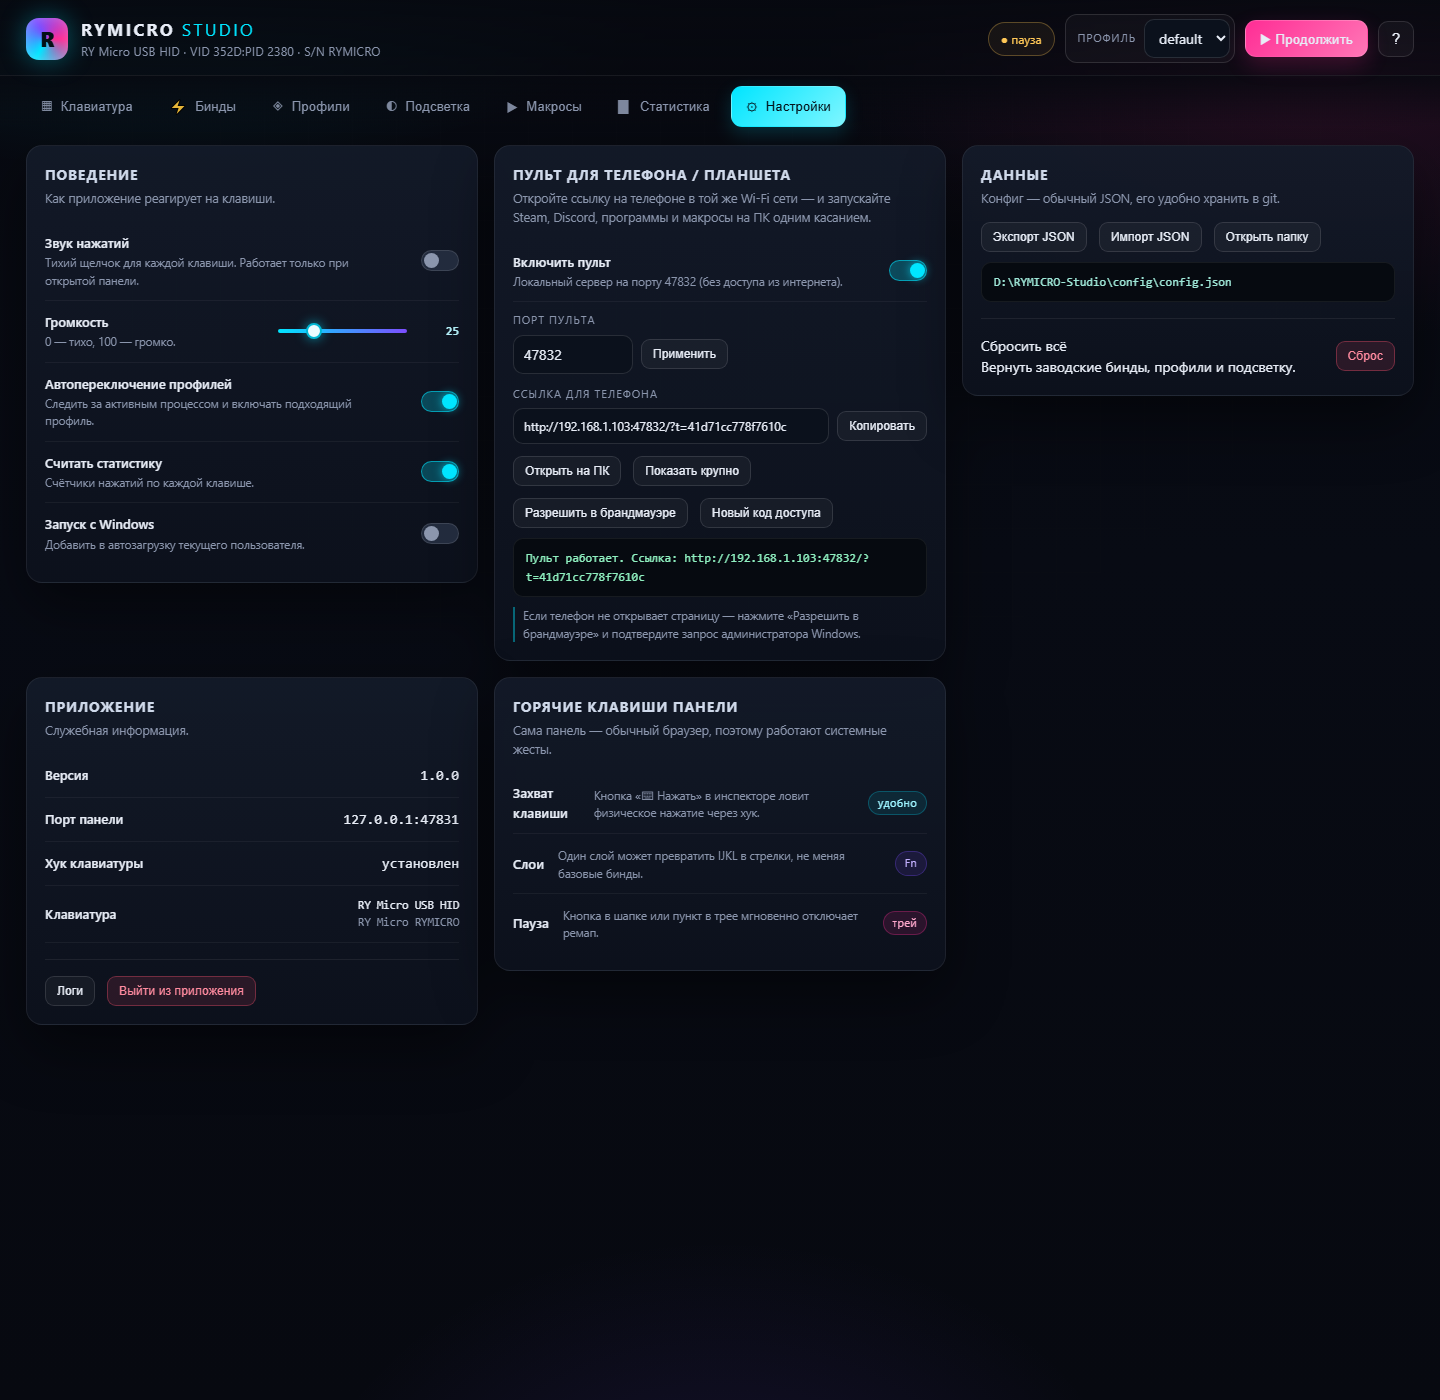
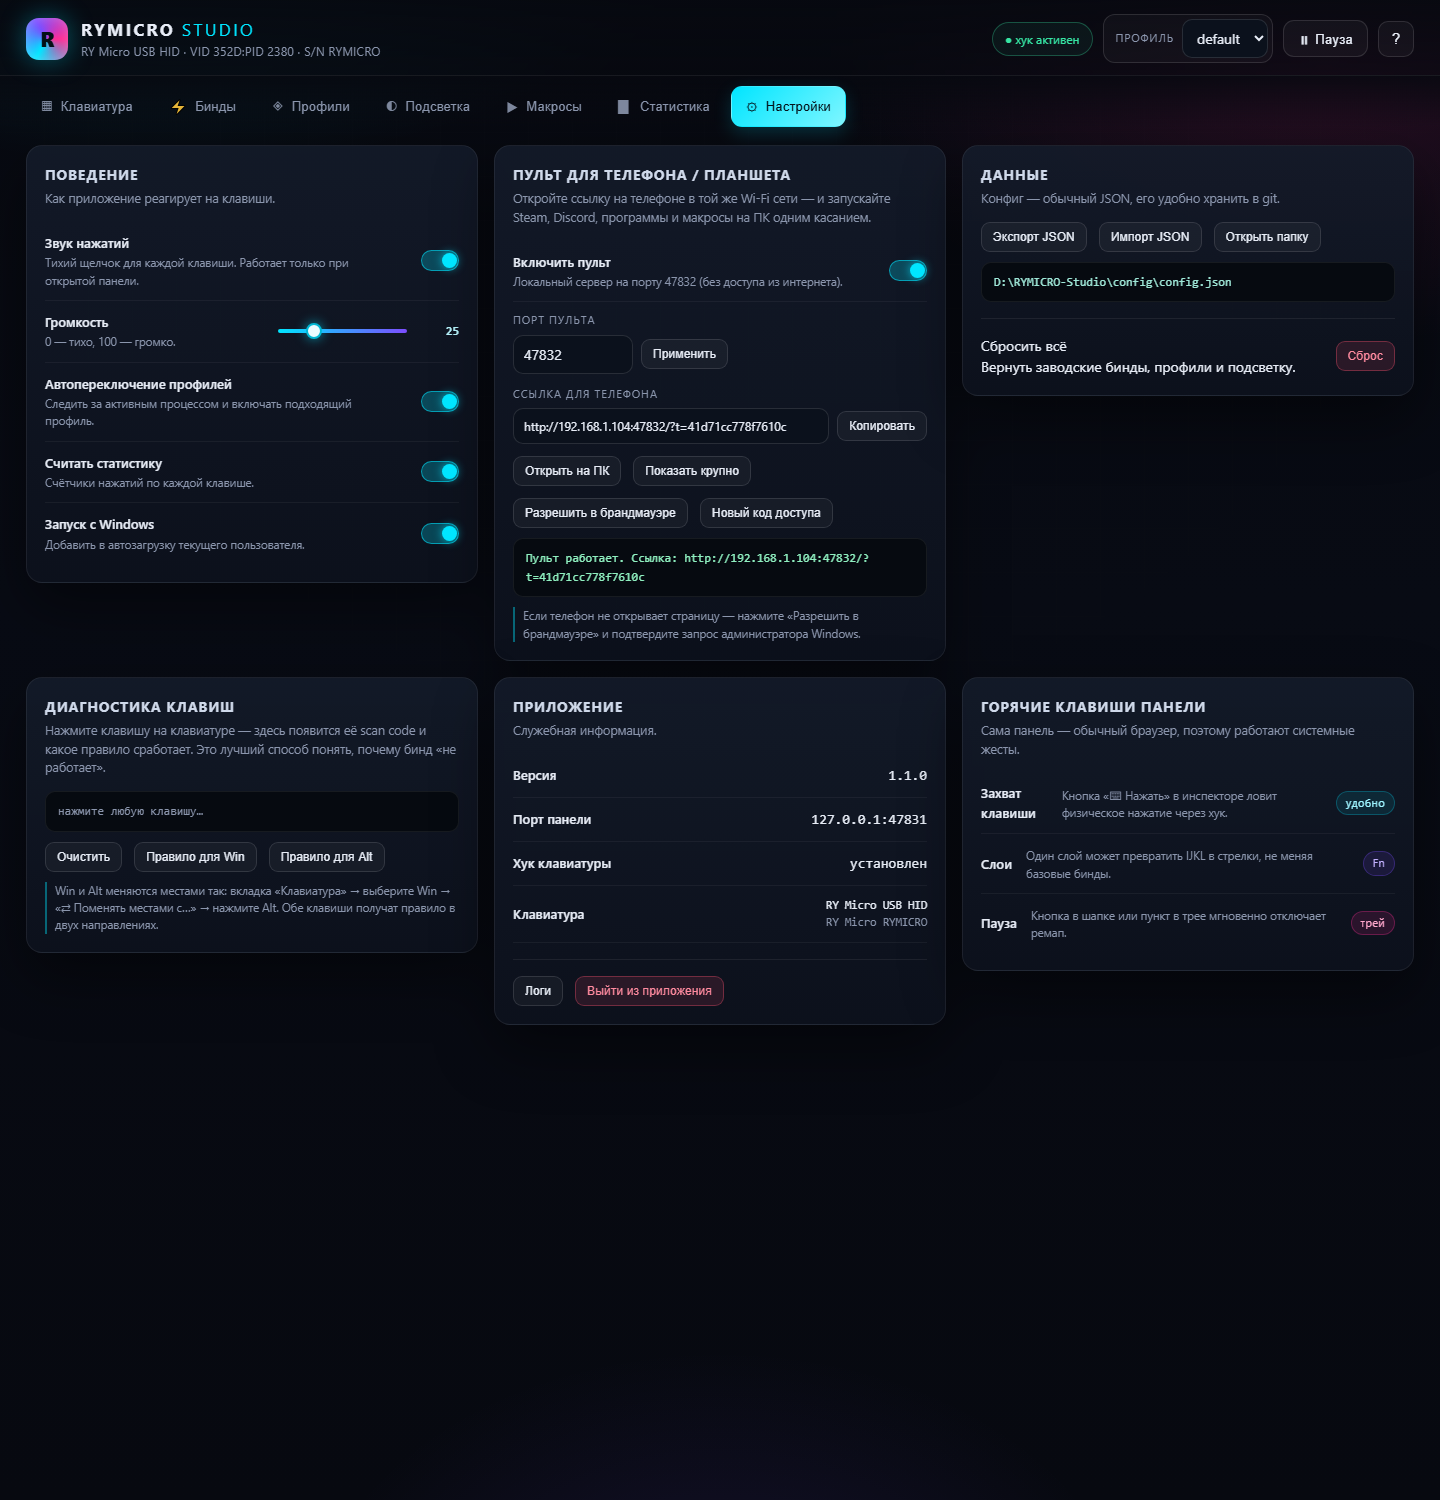
fix: modifier alias matching + key diagnostics (Win/Alt swap actually works)
- alias-aware rule matching: 5B/E05B, 38/E038, 1D/E01D, 2A/36
- hook falls back to VK when a firmware omits the extended flag
- held-target lookup is alias-aware, so Alt can no longer stick
- GET /api/resolve id=... shows which rule applies
- live key log in Settings: id/scan/vk/ext + matched rule

diff --git a/web/pages.js b/web/pages.js
@@ -2,8 +2,8 @@
 (() => {
   'use strict';
   const R = window.RY;
-  const { A, $, esc, fmt, clamp, api, apiGet, keyName, profileObj, toast, openModal, closeModal,
-    ask, confirmBox, startCapture, render, section } = R;
+  const { A, $, $$, esc, fmt, clamp, api, apiGet, keyName, profileObj, toast, openModal, closeModal,
+    ask, confirmBox, startCapture, render, section, actionSummary } = R;
 
   /* ============================== ПРОФИЛИ ============================== */
 
@@ -405,6 +405,19 @@
       </div>
 
       <div class="card">
+        <h3>Диагностика клавиш</h3>
+        <p class="sub">Нажмите клавишу на клавиатуре — здесь появится её scan code и какое правило сработает. Это лучший способ понять, почему бинд «не работает».</p>
+        <div class="console" id="keyLogBox" style="height:auto;max-height:220px;display:flex;flex-direction:column;gap:2px">нажмите любую клавишу…</div>
+        <div class="row" style="margin-top:10px">
+          <button class="btn ghost sm" id="keyLogClear">Очистить</button>
+          <button class="btn ghost sm" data-resolve="E05B">Правило для Win</button>
+          <button class="btn ghost sm" data-resolve="38">Правило для Alt</button>
+        </div>
+        <div class="console" id="resolveLog" style="height:auto;margin-top:10px;display:none"></div>
+        <div class="kbd-hint" style="margin-top:10px">Win и Alt меняются местами так: вкладка «Клавиатура» → выберите Win → «⇄ Поменять местами с…» → нажмите Alt. Обе клавиши получат правило в двух направлениях.</div>
+      </div>
+
+      <div class="card">
         <h3>Приложение</h3>
         <p class="sub">Служебная информация.</p>
         <div class="set-row"><div class="t">Версия</div><div class="mono">${esc(A.ver || '—')}</div></div>
@@ -495,6 +508,26 @@
         remLog('Новый код создан. Ссылка обновлена.', true);
       } catch (e) { remLog('Ошибка: ' + e.message, false); }
     });
+
+    /* диагностика клавиш */
+    R.renderKeyLog();
+    if ($('#keyLogClear')) $('#keyLogClear').addEventListener('click', () => { A.keyLog = []; R.renderKeyLog(); });
+    $$('[data-resolve]').forEach((b) => b.addEventListener('click', async () => {
+      const id = b.dataset.resolve;
+      const box = $('#resolveLog');
+      try {
+        const r = await apiGet('resolve', { id, profile: A.cfg.ActiveProfile, layer: A.layer || '' });
+        box.style.display = 'block';
+        box.textContent = r.matched
+          ? id + ': правило ' + r.from + (r.viaAlias ? ' (совпало как алиас)' : '') + ' · ' + (r.enabled ? 'включено' : 'ВЫКЛЮЧЕНО') + ' · ' + actionSummary(r.action)
+          : id + ': правила нет. Назначьте действие на эту клавишу.';
+        box.style.color = r.matched && r.enabled ? '#8ff0c0' : '#ffb0be';
+      } catch (e) {
+        box.style.display = 'block';
+        box.textContent = 'Ошибка: ' + e.message;
+        box.style.color = '#ffb0be';
+      }
+    }));
 
     $('#exportCfg').addEventListener('click', () => {
       const blob = new Blob([JSON.stringify(A.cfg, null, 2)], { type: 'application/json' });

diff --git a/web/core.js b/web/core.js
@@ -17,7 +17,7 @@
     drag: null, capture: null, audio: null, lastSound: 0,
     macroSel: null, macroDraft: null, rgbLog: [], hidDevices: [],
     pendingState: null, connected: false, sse: null, ready: false,
-    saveTimer: null, lightingTimer: null,
+    saveTimer: null, lightingTimer: null, keyLog: [],
   };
   const R = {};
 
@@ -168,6 +168,9 @@
   }
 
   function onKey(d) {
+    A.keyLog.unshift(d);
+    if (A.keyLog.length > 14) A.keyLog.length = 14;
+    renderKeyLog();
     if (d.Injected) return;
     if (d.Down) {
       if (!A.live.has(d.Id)) {
@@ -204,8 +207,39 @@
     if (info) info.textContent = A.pressedTotal ? 'за сессию: ' + fmt(A.pressedTotal) : '';
   }
 
-  function pulseStrips() {
-    const s = A.cfg && A.cfg.Lighting;
+  const CANON = {
+    '5B': 'LWIN', E05B: 'LWIN', '5C': 'RWIN', E05C: 'RWIN', '5D': 'MENU', E05D: 'MENU',
+    '38': 'ALT', E038: 'ALT', '1D': 'CTRL', E01D: 'CTRL', '2A': 'SHIFT', '36': 'SHIFT',
+  };
+  const canonKey = (id) => CANON[String(id || '').toUpperCase()] || null;
+  const sameKey = (a, b) => {
+    const x = String(a || '').toUpperCase(), y = String(b || '').toUpperCase();
+    if (x && x === y) return true;
+    const ca = canonKey(x);
+    return ca !== null && ca === canonKey(y);
+  };
+  const hex2 = (n) => Number(n || 0).toString(16).toUpperCase().padStart(2, '0');
+
+  function renderKeyLog() {
+    const box = $('#keyLogBox');
+    if (!box) return;
+    if (!A.keyLog.length) { box.innerHTML = '<div class="muted" style="font-size:12px">нажмите любую клавишу…</div>'; return; }
+    const rules = rulesForLayer(profileObj(), A.layer) || [];
+    box.innerHTML = A.keyLog.map((d) => {
+      const rule = rules.find((r) => r.Enabled && sameKey(r.From, d.Id));
+      const verdict = rule
+        ? '<span class="ok">правило ' + esc(rule.From) + ' → ' + esc(actionSummary(rule.Action)) + '</span>'
+        : '<span class="err">правила нет</span>';
+      const alias = rule && String(rule.From).toUpperCase() !== String(d.Id || '').toUpperCase()
+        ? ' <span class="tag">алиас</span>' : '';
+      return '<div class="klog"><b>' + esc(d.Name || d.Id || '—') + '</b>' +
+        '<span class="mono">id=' + esc(d.Id || '—') + ' · scan=' + hex2(d.Scan) + ' · vk=' + hex2(d.Vk) +
+        (d.Ext ? ' · ext' : '') + (d.Down ? '' : ' · up') + '</span>' +
+        (d.Injected ? '<span class="tag">inject</span>' : '') + verdict + alias + '</div>';
+    }).join('');
+  }
+
+  function pulseStrips() {    const s = A.cfg && A.cfg.Lighting;
     if (!s) return;
     ['left', 'right'].forEach((side) => {
       const st = side === 'left' ? s.SideLeft : s.SideRight;
@@ -475,6 +509,7 @@
     A, $, $$, esc, fmt, clamp, delay, api, apiGet,
     keyName, profileObj, rulesForLayer, ruleFor, actionSummary, badgeFor, hexToRgb, stripStyle,
     applyState, onState, connectSSE, onKey, updateKeyLive, renderLiveBar, pulseStrips, playSound,
+    sameKey, canonKey, renderKeyLog,
     startCapture, finishCapture, toast, openModal, closeModal, ask, confirmBox,
     render, switchTab, start, renderHeader,
   });

diff --git a/web/app.css b/web/app.css
@@ -395,3 +395,9 @@ kbd{font:600 11px Consolas,monospace;background:rgba(255,255,255,.07);border:1px
 
 /* отключение анимаций для скриншотов (?noanim=1) */
 body.noanim *,body.noanim *::before,body.noanim *::after{animation:none!important;transition:none!important}
+
+.klog{display:flex;flex-wrap:wrap;gap:8px;align-items:center;padding:6px 8px;border-radius:8px;background:rgba(255,255,255,.03);font-size:12px;margin-bottom:5px}
+.klog .mono{color:#8f9cb3;font-size:11.5px}
+.klog .ok{color:#7ee2b8}
+.klog .err{color:#ff8fa3}
+.klog b{color:#dbe6f7;font-weight:600}

diff --git a/src/Engine.cs b/src/Engine.cs
@@ -153,12 +153,68 @@ namespace RyMicro
             }
         }
 
-        static Rule Find(List<Rule> rules, string id)
+        static string HeldKey(string id)
+        {
+            if (HeldTargets.ContainsKey(id)) return id;
+            foreach (var k in HeldTargets.Keys)
+                if (SameKey(k, id)) return k;
+            return null;
+        }
+
+        /// <summary>Какое правило сработает для клавиши — для диагностики в панели.</summary>
+        public static Rule ResolveRule(string profileName, string layer, string id)
+        {
+            Profile p;
+            if (profileName == null || !Cfg.Current.Profiles.TryGetValue(profileName, out p)) p = Profile();
+            if (p == null) return null;
+            lock (Sync)
+            {
+                if (!string.IsNullOrEmpty(layer))
+                {
+                    List<Rule> rules;
+                    if (p.Layers.TryGetValue(layer, out rules))
+                    {
+                        var found = Find(rules, id);
+                        if (found != null) return found;
+                    }
+                }
+                return Find(p.Rules, id);
+            }
+        }
+
+        public static Rule Find(List<Rule> rules, string id)
         {
             Rule best = null;
             foreach (var r in rules)
-                if (r.Enabled && string.Equals(r.From, id, StringComparison.OrdinalIgnoreCase)) best = r;
+                if (r.Enabled && SameKey(r.From, id)) best = r;
             return best;
+        }
+
+        /// <summary>
+        /// Сравнение клавиш с учётом «алиасов» модификаторов.
+        /// Прошивки дешёвых клавиатур иногда присылают Win без extended-флага,
+        /// а Alt — как правый (E038). Без этого бинд «Win → Alt» молча не срабатывает.
+        /// </summary>
+        public static bool SameKey(string a, string b)
+        {
+            if (string.Equals(a, b, StringComparison.OrdinalIgnoreCase)) return true;
+            string ca = Canon(a), cb = Canon(b);
+            return ca != null && ca == cb;
+        }
+
+        static string Canon(string id)
+        {
+            if (string.IsNullOrEmpty(id)) return null;
+            switch (id.ToUpperInvariant())
+            {
+                case "5B": case "E05B": return "LWIN";
+                case "5C": case "E05C": return "RWIN";
+                case "5D": case "E05D": return "MENU";
+                case "38": case "E038": return "ALT";
+                case "1D": case "E01D": return "CTRL";
+                case "2A": case "36": return "SHIFT";
+            }
+            return null;
         }
 
         static void Apply(KeyEvent e, Rule rule)
@@ -181,11 +237,12 @@ namespace RyMicro
                     List<KeyDef> held;
                     lock (Sync)
                     {
+                        string hk = HeldKey(e.Id);
                         if (e.Down)
                         {
-                            if (HeldTargets.TryGetValue(e.Id, out held))
+                            if (hk != null)
                             {
-                                foreach (var t in held) Native.SendScan(t.Scan, t.Ext, true);
+                                foreach (var t in HeldTargets[hk]) Native.SendScan(t.Scan, t.Ext, true);
                                 return;
                             }
                             foreach (var t in targets) Native.SendScan(t.Scan, t.Ext, true);
@@ -193,10 +250,11 @@ namespace RyMicro
                         }
                         else
                         {
-                            if (HeldTargets.TryGetValue(e.Id, out held))
+                            if (hk != null)
                             {
+                                held = HeldTargets[hk];
                                 for (int i = held.Count - 1; i >= 0; i--) Native.SendScan(held[i].Scan, held[i].Ext, false);
-                                HeldTargets.Remove(e.Id);
+                                HeldTargets.Remove(hk);
                             }
                         }
                     }

diff --git a/src/Http.cs b/src/Http.cs
@@ -407,6 +407,29 @@ namespace RyMicro
                 }));
                 return;
             }
+            if (name == "resolve" && get)
+            {
+                string id = req.QueryString["id"];
+                if (string.IsNullOrEmpty(id)) { Json(res, 400, new { ok = false, error = "Нужен id" }); return; }
+                var rule = Engine.ResolveRule(req.QueryString["profile"], req.QueryString["layer"], id);
+                if (rule == null)
+                {
+                    Reply(res, Cfg.ToJson(new { ok = true, id, matched = false, note = "правило не найдено" }));
+                    return;
+                }
+                Reply(res, Cfg.ToJson(new
+                {
+                    ok = true,
+                    id,
+                    matched = true,
+                    from = rule.From,
+                    viaAlias = !string.Equals(rule.From, id, StringComparison.OrdinalIgnoreCase),
+                    enabled = rule.Enabled,
+                    note = rule.Note,
+                    action = rule.Action
+                }));
+                return;
+            }
             if (name == "remote-status" && get)
             {
                 Reply(res, Remote.StatusJson());

diff --git a/src/Hook.cs b/src/Hook.cs
@@ -55,10 +55,12 @@ namespace RyMicro
                         bool ext = (k.flags & Native.LLKHF_EXTENDED) != 0;
                         string id = Keys.IdFromScan(k.scanCode, ext);
                         var def = Keys.Get(id);
-                        if (id == null)
+                        if (def == null)
                         {
-                            id = "VK_" + k.vkCode.ToString("X2");
-                            def = Keys.ByVkCode(k.vkCode);
+                            // Прошивка могла не выставить extended-флаг (Win/Menu) — уточняем по VK.
+                            var byVk = Keys.ByVkCode(k.vkCode);
+                            if (byVk != null) { id = byVk.Id; def = byVk; }
+                            else if (id == null) id = "VK_" + k.vkCode.ToString("X2");
                         }
                         var e = new KeyEvent
                         {

diff --git a/CHANGELOG.md b/CHANGELOG.md
@@ -11,14 +11,18 @@
 - **Быстрые действия** на вкладке «Бинды»: Steam, Discord, сайт, калькулятор, проводник, блокнот, скриншот, вставка текста, команда.
 - **Обмен клавиш местами**: `Shift` + перетаскивание и кнопка «⇄ Поменять местами с…» (исправляет односторонний «swap» Win/Alt).
 - **Диагностика HID**: `GET /api/lighting-diag` и кнопка «Проверить доступ» — показывает usage page, длины отчётов и вердикт.
+- **Диагностика клавиш** в настройках: живой список последних нажатий с `id`, `scan`, `vk`, `ext` и указанием, какое правило сработало.
+- `GET /api/resolve?id=E05B` — какое правило применится к клавише (удобно проверять бинды без нажатий).
 - HID-консоль умеет выбирать интерфейс по `usage page` (например, `FF00`) и подстраивает размер отчёта под устройство.
 
 ### Изменено
 - Инъекция клавиш переведена на scan code (`SendInput` + `KEYEVENTF_SCANCODE`) — модификаторы Win/Alt и игры работают надёжнее.
+- Сравнение клавиш учитывает алиасы модификаторов: Win без extended-флага (`5B`) и правый Alt (`E038`) теперь совпадают с биндами `E05B` и `38`.
 - В интерфейсе подсветки появился постоянный честный баннер про управление прошивкой.
 
 ### Исправлено
 - Win и Alt не менялись местами: обмен был односторонним ремапом.
+- Возможное «залипание» Alt, если прошивка присылала keyup с другим id, чем keydown.
 - Калькулятор и другие быстрые шаблоны теперь создаются корректно.
 
 ## [1.0.0] — 2026-11-16

diff --git a/README.md b/README.md
@@ -63,6 +63,7 @@
 
 ### Статистика и мелочи
 - Счётчики нажатий по каждой клавише, топ-12, тепловая карта.
+- **Диагностика клавиш**: живой список нажатий с кодом клавиши и сработавшим правилом — видно, почему бинд не работает.
 - Звук нажатий (синтезируется в браузере, без файлов).
 - Запуск с Windows, один экземпляр, трей-меню, пауза одной кнопкой.
 - Конфиг — обычный JSON, экспорт/импорт, сброс к заводским настройкам.
@@ -145,6 +146,7 @@ src/                 — исходники C#
 | `POST /api/layer-add`, `layer-delete` | слои |
 | `POST /api/lighting` | сохранить схему подсветки |
 | `GET /api/lighting-diag` | HID-интерфейсы, vendor-страницы, вердикт |
+| `GET /api/resolve?id=E05B` | какое правило сработает для клавиши |
 | `POST /api/openrgb` | `probe` / `apply` / `rainbow` / `off` |
 | `POST /api/hid-send` | HID feature/output-репорт (можно указать `usagePage`) |
 | `GET /api/remote-status` | состояние пульта, ссылка и токен |
